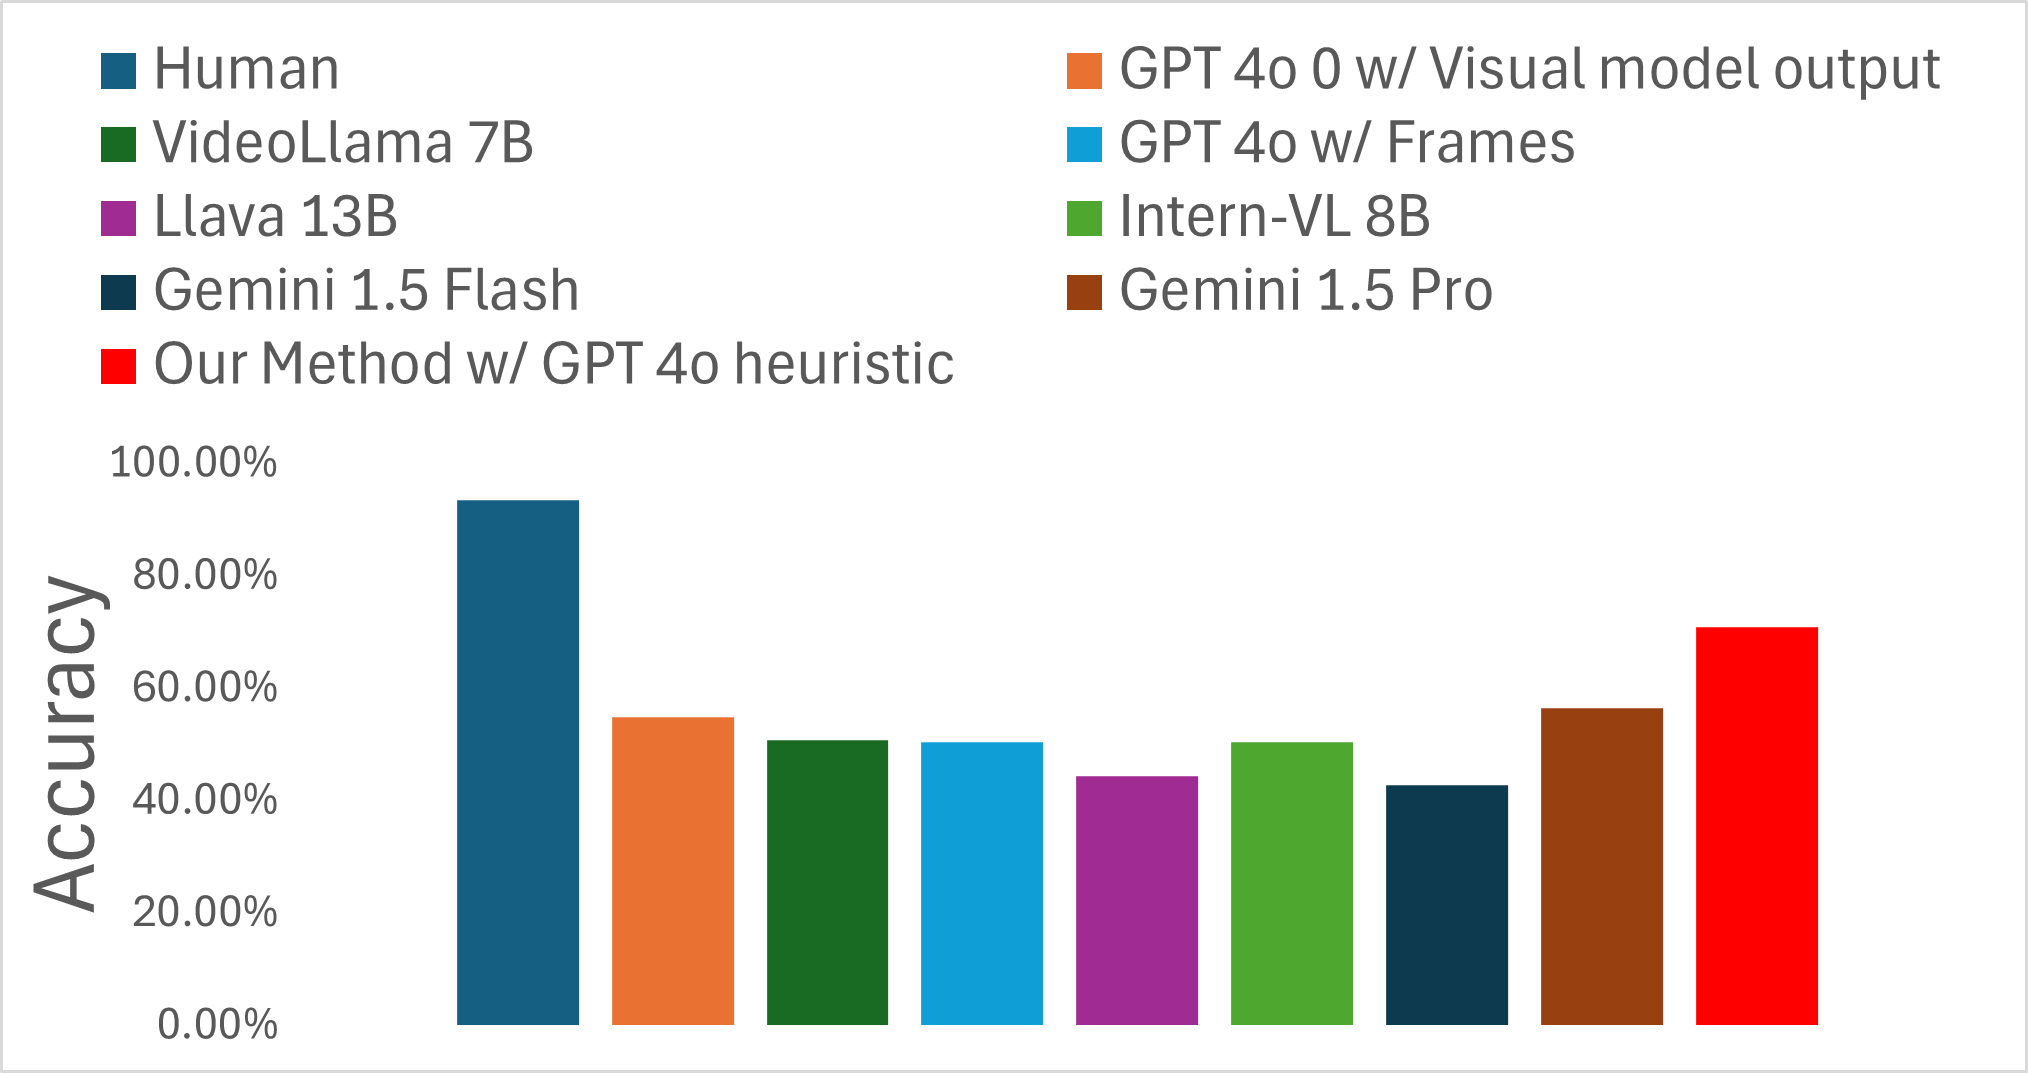
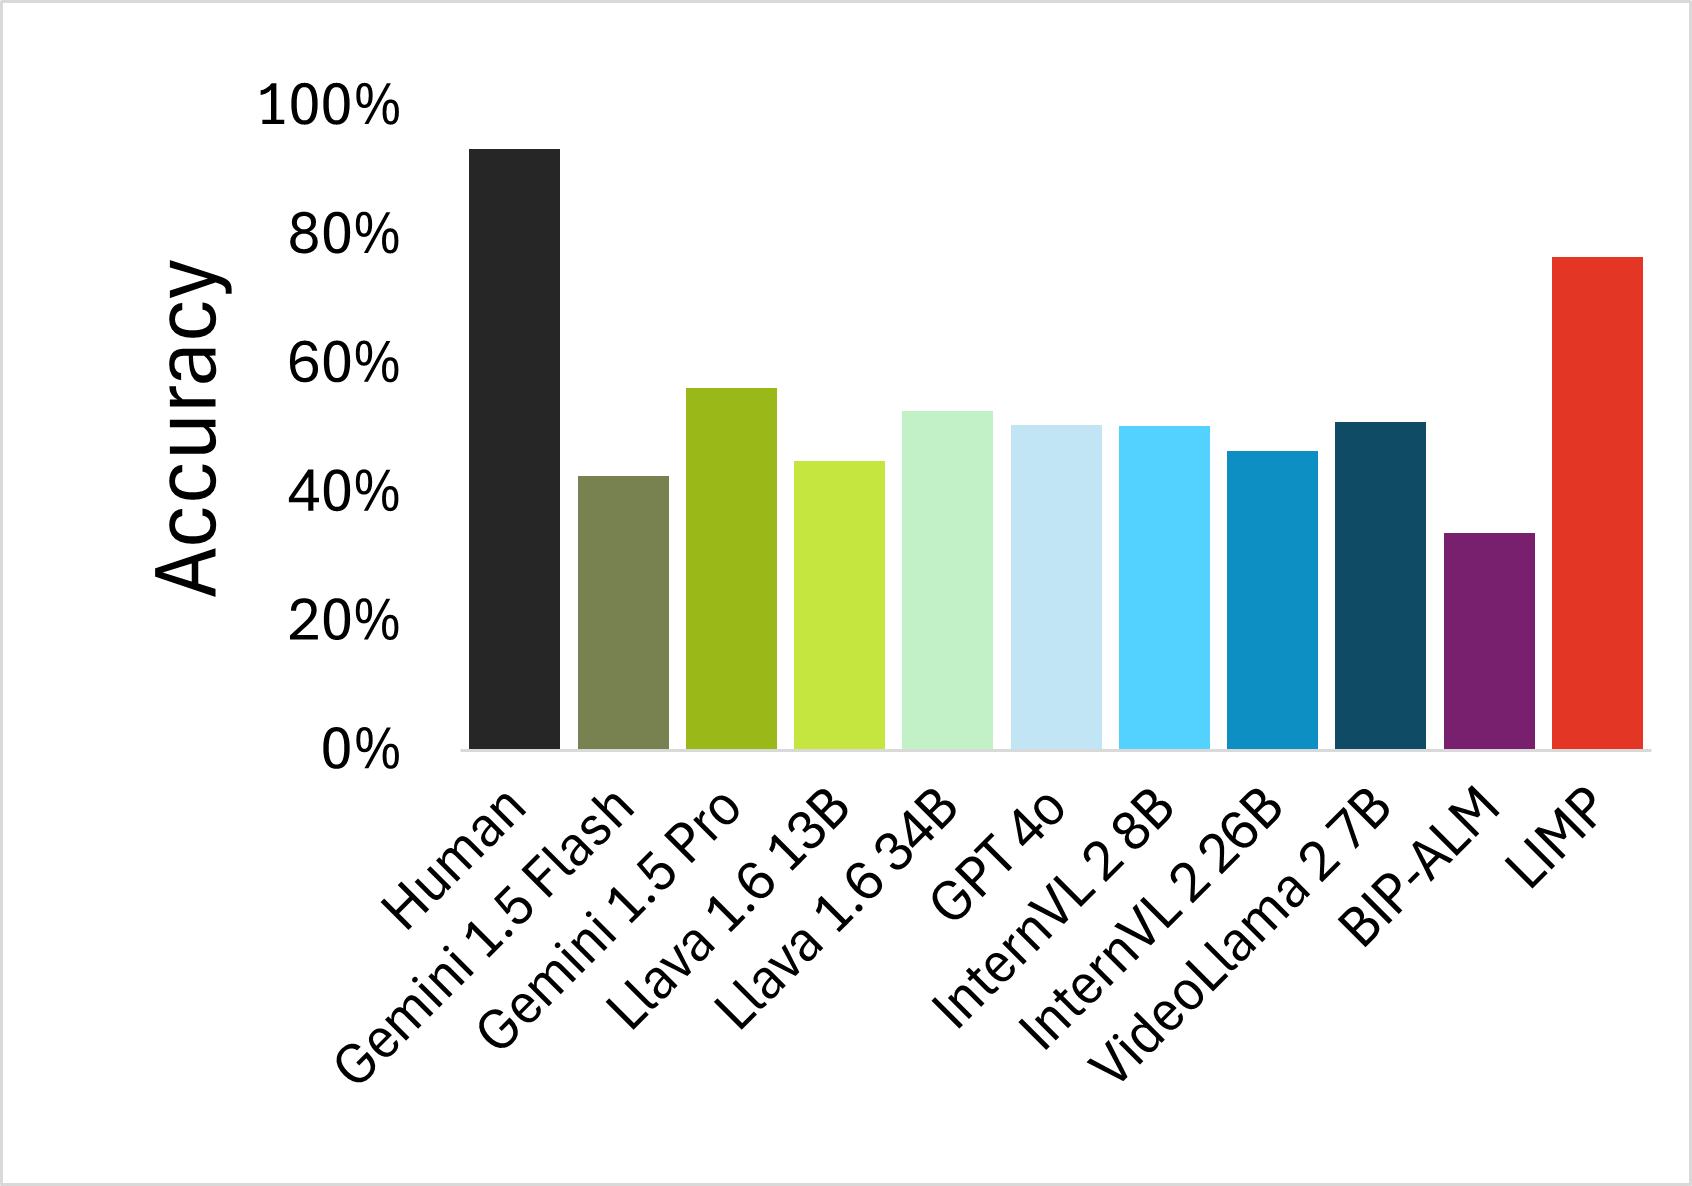
Updates

diff --git a/index.html b/index.html
@@ -37,11 +37,11 @@
           <h1 class="title is-1 publication-title">MuMA-ToM: Multi-modal Multi-Agent Theory of Mind</h1>
           <div class="is-size-5 publication-authors">
             <span class="author-block">
-              <a href="">Haojun Shi</a><sup> 1*</sup>,</span>
+              <a href="https://www.linkedin.com/in/haojun-shi-746b3328b/">Haojun Shi</a><sup> 1*</sup>,</span>
             <span class="author-block">
-              <a href="">Suyu Ye</a><sup> 1*</sup>,</span>
+              <a href="https://www.linkedin.com/in/suyu-ye/">Suyu Ye</a><sup> 1*</sup>,</span>
             <span class="author-block">
-              <a href="">Xinyu Fang</a><sup> 1</sup>,
+              <a href="https://www.linkedin.com/in/casper-xinyu-fang">Xinyu Fang</a><sup> 1</sup>,
             </span>
             <span class="author-block">
               <a href="https://chuanyangjin.com">Chuanyang Jin</a><sup> 1</sup>,
@@ -282,14 +282,14 @@
         <div class="content has-text-justified">
           <p>We evaluated the performance of various large multimodal models (LMMs) on a MuMA-ToM benchmark, comparing their results with human participants.</p>
           <ul class="content-summary">
-            <li>Human participants achieved an average accuracy of 93.5%, providing a strong baseline for comparison.</li>
+            <li>Human participants achieved an average accuracy of 93.5%.</li>
             <li>Most LMMs performed poorly, particularly in social goal inference and belief of goal inference, with accuracy significantly lower than that of humans.</li>
-            <li>Gemini 1.5 Pro was the best-performing LMM, with an overall accuracy of 56.4%, yet it still fell considerably short of human performance.</li>
-            <li>The new LIMP model outperformed other state-of-the-art LMMs, achieving 76.6% accuracy, but it still did not match human performance.</li>
+            <li>Gemini 1.5 Pro was the best-performing LMM, with an overall accuracy of 56.4%</li>
+            <li>Our LIMP model outperformed other state-of-the-art LMMs, achieving 76.6% accuracy</li>
           </ul>
         </div>
         <div class="content has-text-centered">
-          <figure class="image">
+          <figure class="image" style="width: 60%; margin: 0 auto; text-align: center;">
             <img src="/static/media/Performance_Graph.png" alt="Chart showing Quantitative Results">
           </figure>
         </div>
@@ -298,24 +298,35 @@
   </div>
 </section> 
 
+<section class="section" id="BibTeX">
+  <div class="container is-max-desktop content">
+    <h2 class="title">BibTeX</h2>
+    <pre><code>@article{temp,
+  author    = {},
+  title     = {MuMA-ToM: Multi-modal Multi-Agent Theory of Mind},
+  journal   = {Arxiv Preprint},
+  year      = {2024},
+}</code></pre>
+  </div>
+</section>
 
-      <footer class="footer" style="padding: 10px 0;">
-        <div class="container">
-          <div class="columns is-centered">
-            <div class="column is-8" style="padding: 0;">
-              <div class="content" style="font-size: 0.9em; margin-bottom: 0;">
-      
-                <p style="line-height: 1.4;">
-                  This page was built using the <a href="https://github.com/eliahuhorwitz/Academic-project-page-template" target="_blank">Academic Project Page Template</a> adopted from the <a href="https://nerfies.github.io" target="_blank">Nerfies</a> project page.
-                  You are free to borrow the code of this website; we just ask that you link back to this page in the footer. 
-                  This website is licensed under a <a rel="license" href="http://creativecommons.org/licenses/by-sa/4.0/" target="_blank">Creative Commons Attribution-ShareAlike 4.0 International License</a>.
-                </p>
-      
-              </div>
-            </div>
-          </div>
+<footer class="footer" style="padding: 10px 0;">
+  <div class="container">
+    <div class="columns is-centered">
+      <div class="column is-8" style="padding: 0;">
+        <div class="content" style="font-size: 0.9em; margin-bottom: 0;">
+
+          <p style="line-height: 1.4;">
+            This page was built using the <a href="https://github.com/eliahuhorwitz/Academic-project-page-template" target="_blank">Academic Project Page Template</a> adopted from the <a href="https://nerfies.github.io" target="_blank">Nerfies</a> project page.
+            You are free to borrow the code of this website; we just ask that you link back to this page in the footer. 
+            This website is licensed under a <a rel="license" href="http://creativecommons.org/licenses/by-sa/4.0/" target="_blank">Creative Commons Attribution-ShareAlike 4.0 International License</a>.
+          </p>
+
         </div>
-      </footer>
-      
+      </div>
+    </div>
+  </div>
+</footer>
+
 </body>
 </html>
